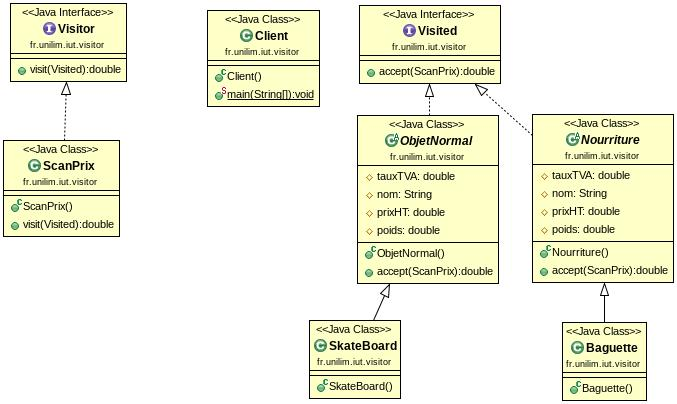
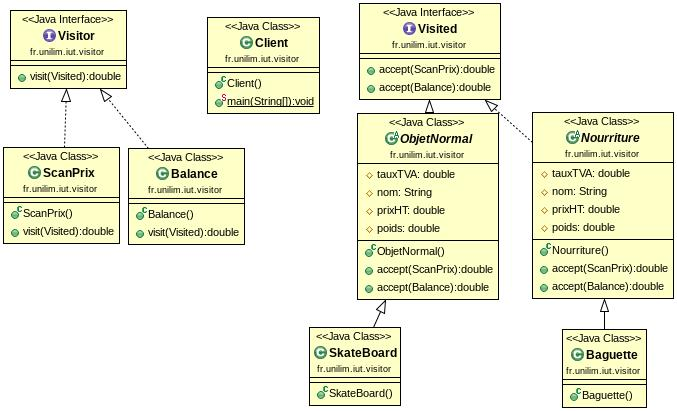
Étape 3 - Ajout d'un nouveau Visiteur
Ajout de la balance
Implémentation des méthodes accept dans les objets visités

diff --git a/src/fr/unilim/iut/visitor/Client.java b/src/fr/unilim/iut/visitor/Client.java
@@ -8,14 +8,24 @@ public class Client {
 	 */
 	public static void main(String[] args) {
 		Visitor caisse = new ScanPrix();
+		Visitor balance = new Balance();
 		Visited skate = new SkateBoard();
 		Visited baguette = new Baguette();
+		
 		
 		// Affichage du prix TTC du skateboard
 		System.out.println(skate.accept((ScanPrix) caisse));
 		
 		// Affichage du prix TTC d'une baguette
 		System.out.println(baguette.accept((ScanPrix) caisse));
+		
+		System.out.println();
+		
+		// Affichage du poids en kg du skateboard
+		System.out.println(skate.accept((Balance) balance));
+		
+		// Affichage du poids en kg de la baguette
+		System.out.println(baguette.accept((Balance) balance));
 
 	}
 

diff --git a/src/fr/unilim/iut/visitor/ObjetNormal.java b/src/fr/unilim/iut/visitor/ObjetNormal.java
@@ -18,5 +18,12 @@ public abstract class ObjetNormal implements Visited {
 		System.out.println(this.nom + " prix TTC : ");
 		return this.prixHT + (this.tauxTVA * this.prixHT);
 	}
+	
+	@Override
+	public double accept(Balance visiteur) {
+		System.out.println(this.nom + " poids : ");
+		return this.poids;
+	}
+	
 
 }

diff --git a/src/fr/unilim/iut/visitor/Nourriture.java b/src/fr/unilim/iut/visitor/Nourriture.java
@@ -16,5 +16,11 @@ public abstract class Nourriture implements Visited {
 		System.out.println(this.nom + " prix TTC : ");
 		return this.prixHT + (this.tauxTVA * this.prixHT);
 	}
+	
+	@Override
+	public double accept(Balance visiteur) {
+		System.out.println(this.nom + " poids : ");
+		return this.poids;
+	}
 
 }

diff --git a/src/fr/unilim/iut/visitor/Balance.java b/src/fr/unilim/iut/visitor/Balance.java
@@ -1,0 +1,15 @@
+package fr.unilim.iut.visitor;
+
+/**
+ * Implémentation de l'interface Visiteur qui permet de relever les poids
+ * @author quentin
+ *
+ */
+public class Balance implements Visitor {
+
+	@Override
+	public double visit(Visited visite) {
+		return visite.accept(this);
+	}
+
+}

diff --git a/src/fr/unilim/iut/visitor/Visited.java b/src/fr/unilim/iut/visitor/Visited.java
@@ -14,4 +14,11 @@ public interface Visited {
 	 * @return
 	 */
 	public double accept(ScanPrix visiteur);
+	
+	/**
+	 * Retourne le poids en kg calculé par le visiteur
+	 * @param visiteur
+	 * @return
+	 */
+	public double accept(Balance visiteur);
 }
